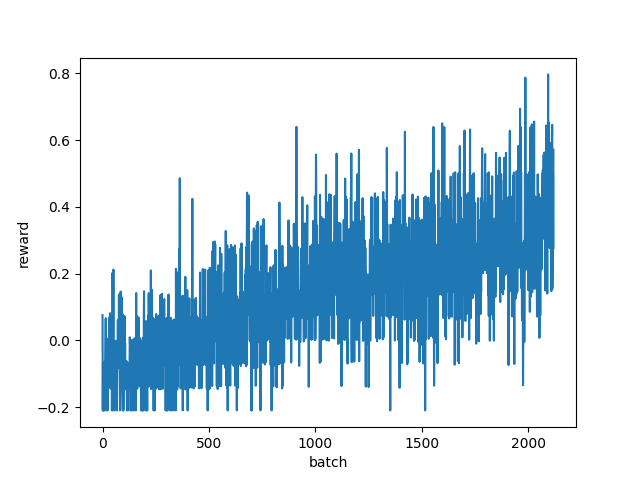
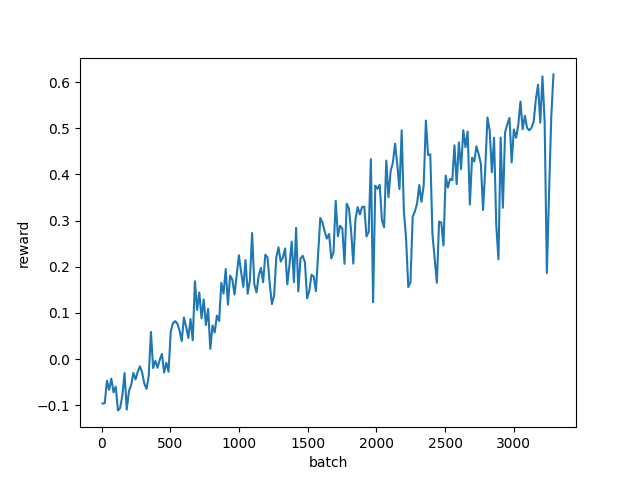
save stff

diff --git a/mountain_car/mc_pg.py b/mountain_car/mc_pg.py
@@ -28,6 +28,7 @@ class QPredictor(nn.Module):
         x = torch.tanh(x)
         x = self.h2(x)
         x = torch.tanh(x)
+        # x = F.dropout(x, 0.1)
         x = self.h3(x)
         # print('forward x.size()', x.size())
         return x
@@ -53,12 +54,16 @@ def run(args):
     batch_reward_sum = 0.0
     batch_loss_sum = 0.0
     batch_actions_sums = [0] * 3
+
     replay_buffer = deque()
+    replay_buffer_dones = deque()  # for ground truth, when we finish the episode
 
     def train_batch():
         if args.replay_samples >= len(replay_buffer):
             return 0.0
-        samples = random.sample(replay_buffer, args.replay_samples)
+        done_samples = random.sample(replay_buffer_dones, min(args.replay_samples // 2, len(replay_buffer_dones)))
+        not_done_samples = random.sample(replay_buffer, args.replay_samples - len(done_samples))
+        samples = done_samples + not_done_samples
         batch_loss = 0.0
         for sample in samples:
             # print('sample', sample)
@@ -73,7 +78,7 @@ def run(args):
                     target_qv_t1 = target_q_predictor(state_t1)
                     _, target_a_t1 = target_qv_t1.max(dim=-1)
                     target_q_t = args.reward_decay * target_qv_t1[0, target_a_t1] + reward_t
-            loss = ((target_q_t - pred_qv[0, action_t]) * (target_q_t - pred_qv[0, action_t])).sqrt()
+            loss = ((target_q_t - pred_qv[0, action_t]) * (target_q_t - pred_qv[0, action_t]) + 1e-8).sqrt()
             batch_loss += loss.item()
             loss.backward()
         opt.step()
@@ -104,15 +109,21 @@ def run(args):
             # print('new_state_t.size()', new_state_t.size())
             batch_reward_sum += reward_t
 
-            replay_buffer.append({
+            event = {
                 'state': state_t,
                 'action': action_t,
                 'new_state': new_state_t,
                 'reward': reward_t,
                 'done': done
-            })
+            }
+            if done:
+                replay_buffer_dones.append(event)
+            else:
+                replay_buffer.append(event)
             if len(replay_buffer) > args.replay_buffer_size:
                 replay_buffer.popleft()
+            if len(replay_buffer_dones) > args.replay_buffer_size:
+                replay_buffer_dones.popleft()
 
             loss = train_batch()
 
@@ -181,15 +192,15 @@ def run(args):
 
 if __name__ == '__main__':
     parser = argparse.ArgumentParser()
-    parser.add_argument('--lr', type=float, default=0.01)
+    parser.add_argument('--lr', type=float, default=0.001)
     parser.add_argument('--render-every', type=int, default=32)
     parser.add_argument(
-        '--copy-weights-every-batch', type=int, default=32,
+        '--copy-weights-every-batch', type=int, default=128,
         help='how often to copy weightsfrom main to target')
     parser.add_argument('--logfile', type=str, required=True)
     parser.add_argument('--replay-buffer-size', type=int, default=10000)
     parser.add_argument('--replay-samples', type=int, default=16)
-    parser.add_argument('--reward-decay', type=float, default=0.95)
+    parser.add_argument('--reward-decay', type=float, default=0.99)
     parser.add_argument('--draw-q-every-batches', type=int, default=256)
     parser.add_argument('--q-graphs-dir', type=str, default='tmp/q')
     # parser.add_argument('--q-values-imagefile', type=str, default='tmp/q_values.png')
